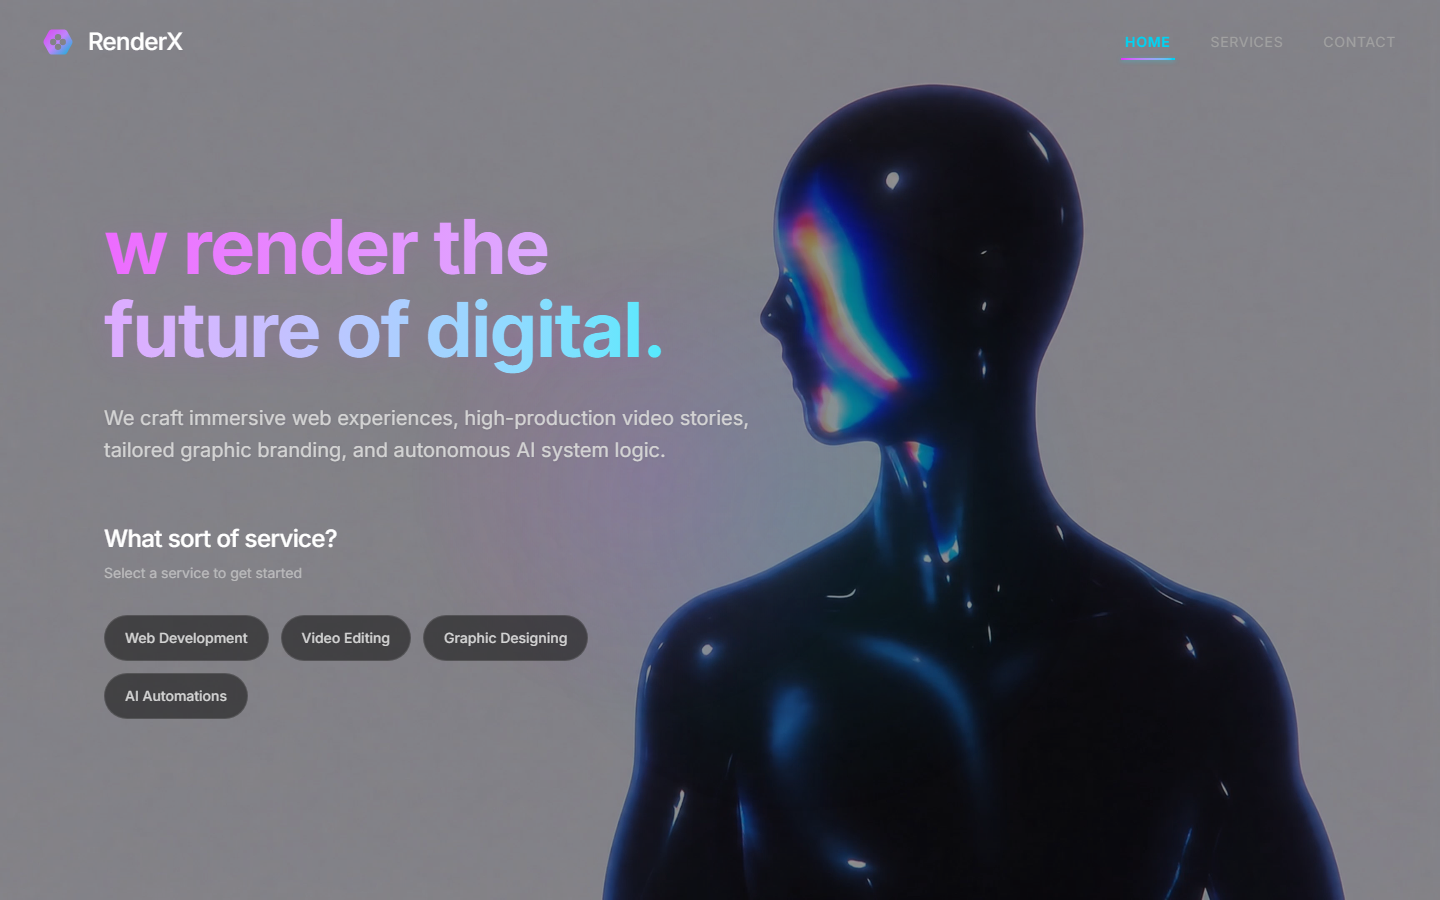
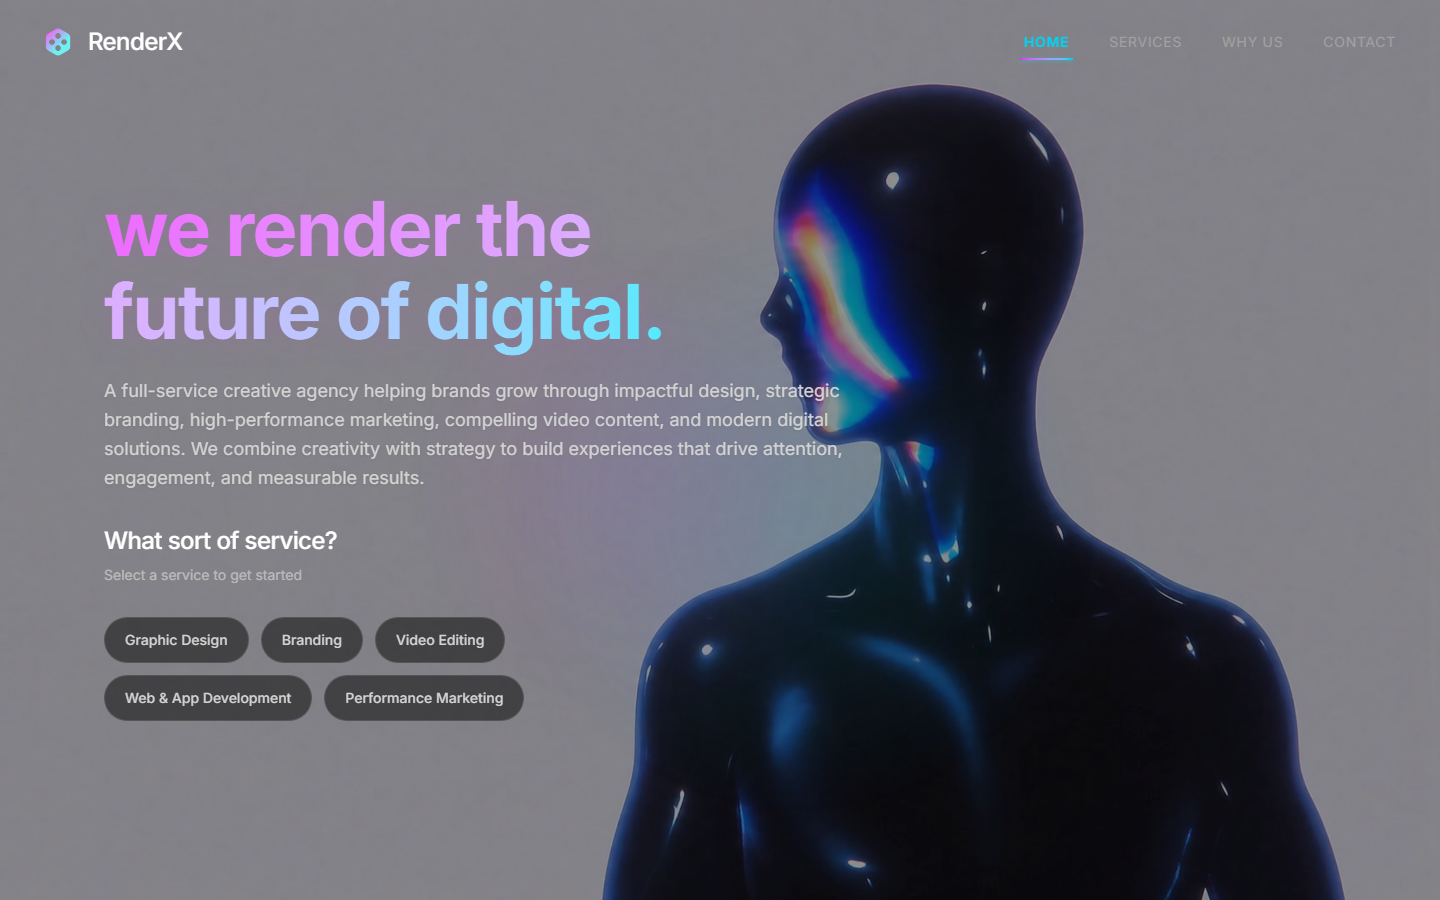
Fix typewriter skipping characters under batched updates; refresh screenshot
The typewriter built its string with a stale closure index inside the
state updater, so when React batched several interval ticks the updaters
all read the advanced index and dropped characters. Slice from the source
text by index instead.

diff --git a/src/hooks/useTypewriter.ts b/src/hooks/useTypewriter.ts
@@ -14,8 +14,8 @@ export function useTypewriter(text: string, speed = 38, startDelay = 600) {
     const timeoutId = setTimeout(() => {
       intervalId = setInterval(() => {
         if (currentIndex < text.length) {
-          setDisplayed((prev) => prev + text.charAt(currentIndex));
           currentIndex++;
+          setDisplayed(text.slice(0, currentIndex));
         } else {
           setDone(true);
           clearInterval(intervalId);